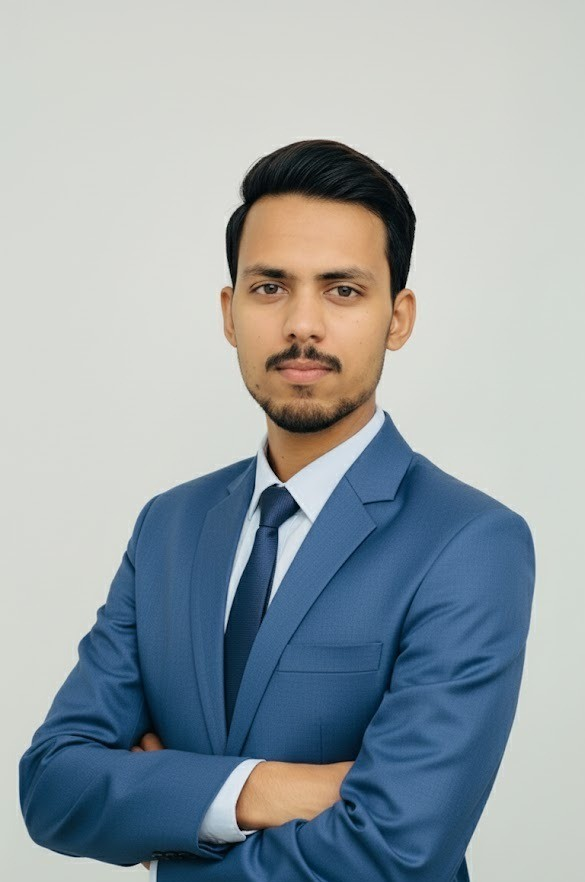
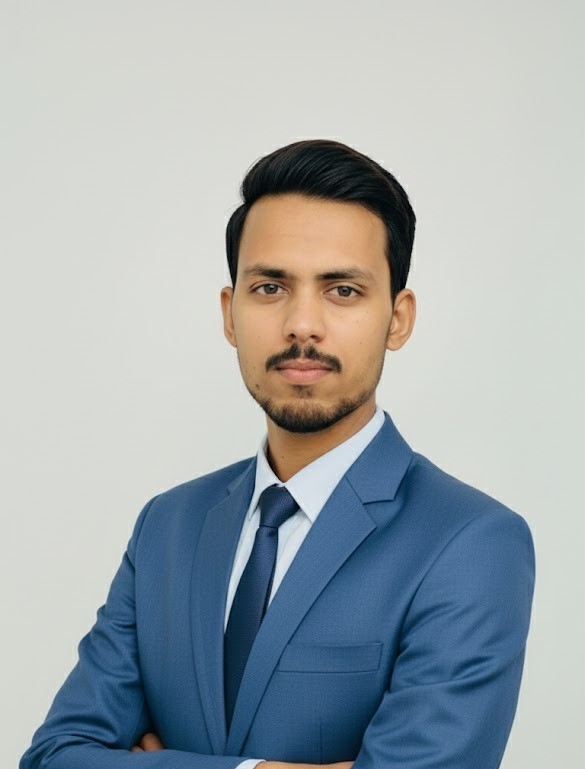
some changes

diff --git a/personal-portfolio-website-html-css-javascript/projects.html b/personal-portfolio-website-html-css-javascript/projects.html
@@ -64,13 +64,13 @@
       <h1 class="page-title">Selected Works.</h1>
 
       <div class="projects-grid">
-        <!-- Project 1: E-commerce Platform Redesign -->
+        <!-- Project 1: TransitOps transport -->
         <div class="project-card">
           <div class="project-img-wrapper">
-            <img src="assets/images/project-ecommerce.jpg" alt="E-commerce Platform Redesign" class="project-img"
+            <img src="assets/images/TransitOps.png" alt="E-commerce Platform Redesign" class="project-img"
               loading="lazy" />
             <div class="project-overlay">
-              <a href="#" target="_blank" rel="noopener noreferrer" class="overlay-btn">
+              <a href="https://transit-ops-platform-tau.vercel.app/dashboard" target="_blank" rel="noopener noreferrer" class="overlay-btn">
                 <svg xmlns="http://www.w3.org/2000/svg" width="18" height="18" viewBox="0 0 24 24" fill="none"
                   stroke="currentColor" stroke-width="2" stroke-linecap="round" stroke-linejoin="round">
                   <path d="M10 13a5 5 0 0 0 7.54.54l3-3a5 5 0 0 0-7.07-7.07l-1.72 1.71"></path>
@@ -87,6 +87,10 @@
             <div class="project-tags">
               <span class="tag">UX Design</span>
               <span class="tag">React</span>
+              <span class="tag">Node.js + Express.js</span>
+              <span class="tag">JWT</span>
+              <span class="tag">Postman</span>
+              <span class="tag">Lucide React</span>
             </div>
           </div>
         </div>

diff --git a/personal-portfolio-website-html-css-javascript/about.html b/personal-portfolio-website-html-css-javascript/about.html
@@ -68,7 +68,7 @@
       <div class="about-grid">
         <div class="about-image-col">
           <div class="image-stack">
-            <img src="assets/images/profile.jpg" alt="Anup Maurya" class="stack-img main-img" loading="lazy" />
+            <img src="assets/images/profile_about.jpg" alt="Anup Maurya" class="stack-img main-img" loading="lazy" />
           </div>
         </div>
 
